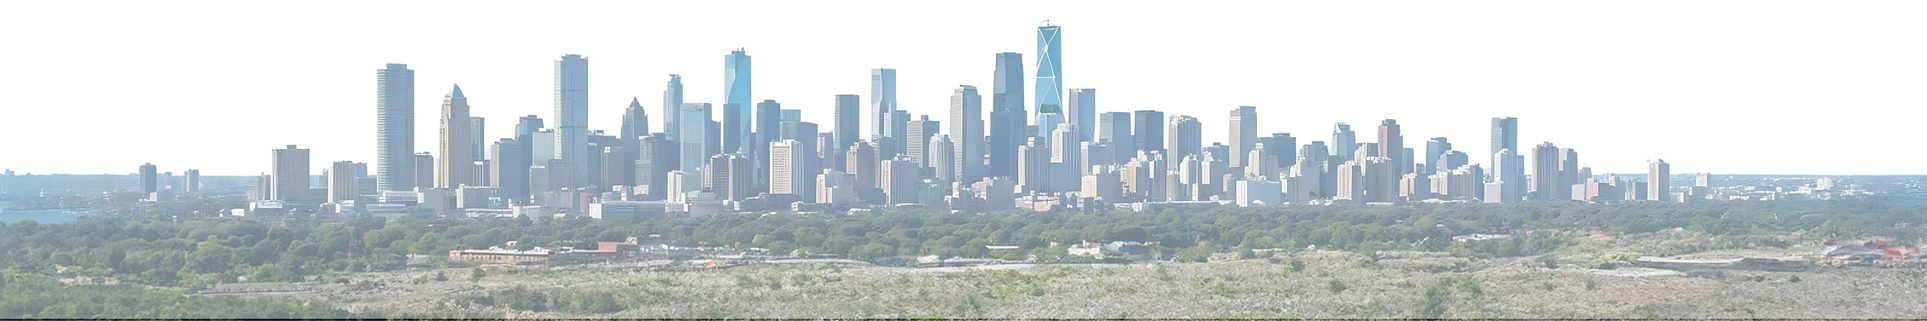
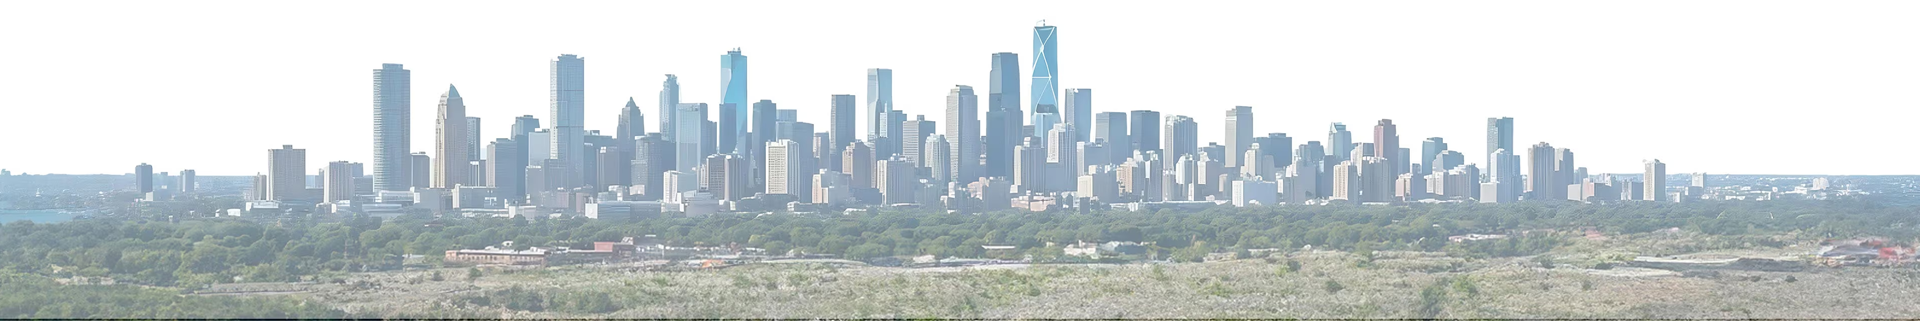
Add files via upload

diff --git a/week_06/index.html b/week_06/index.html
@@ -9,69 +9,341 @@
     <link rel="preconnect" href="https://fonts.googleapis.com">
     <link rel="preconnect" href="https://fonts.gstatic.com" crossorigin>
     <link href="https://fonts.googleapis.com/css2?family=Bebas+Neue&display=swap" rel="stylesheet">
-    <style>
-        h1,h3,h5 {
-            font-family: "Bebas Neue", sans-serif;
-        }
 
-        .cityscape {
-            margin: 292px 0px; position:absolute;
-        }
 
-         h1 {
-            margin: 139px 159px; position:absolute;
-            font-size: 55px;
-        }
+            <style>
+                body {
+                    font-family: "Bebas Neue", sans-serif;
+                }
 
-         .toph3 {
-            margin:212px 159px; position:absolute;
-            font-size: 30px;
-        }
+               html, body {
+                    margin: 0;
 
-        .bottomh3 {
-            margin: 720px 120px; position:absolute;
-            font-size: 30px;
-        }
+               }
 
-        .container {
-          display: flex;
-        }
+               .hero{
+                    background-image: url("imgs/hero_background.png");
+                    background-repeat: no-repeat;
+                    background-size: cover;
+                    background-position: center center;
+                    min-height: 100vh;
+                    color: white;
+                    position: relative;
+               }
         
+               nav {
+                    display: flex;  
+                    justify-content: space-between;
+                    
+               }
+
+               nav>ul>li {
+                    list-style: none;
+                    display: inline;
+                    margin-right: 30px;
+                    font-size: 13px;
+                    margin-top: 0px;
+               }
         
 
-    </style>
+               .search::before {
+                    content: url("imgs/search.png");
+               }
+
+               .map::before {
+                    content: url("imgs/location.png");
+               }
+
+               .user::before {
+                    content: url("imgs/account.png");
+               }
+
+               .lang::before {
+                    content: url("imgs/lang.png");
+                    margin-right: 25px;
+               }
+
+              
+
+               .hero-info {
+                    position: inherit;
+                    margin: 0;
+                    width: 600px;
+                    min-height: 144px;
+                    /* border: 1px solid white; */
+                    top: 300px;
+                    left: 100px;
+               }
+
+               .hero-info>h2,h3,h4 {
+                margin: 0px;
+
+               }
+
+               .hero-info>.year {
+                font-size: 34px;
+
+               }
+
+               .hero-info> h2 {
+                font-size: 72px;
+                margin: 0;
+                margin-top: 0;
+               }
+
+               .hero-info> h3 {
+                font-size: 34px;
+                margin: 0;
+               }
+
+               .hero-info> h4 {
+                font-size: 16px;
+                margin: 0;
+               }
+
+               .hero-info>h4>a {
+                    color: white;
+               }
+
+               .hero-info>ul>li {
+                    list-style: none;
+                    display: inline;
+                    margin: 0px;
+                    /* background-color: blue; */
+                    border: 1px solid white;
+                    padding: 15px 50px;
+                    border-radius: 30px;
+               }
+
+               .white-block{
+                color: black;
+                background-color: white;
+               }
+
+               .product-info {
+                    position: relative;
+                    padding-top: 130px;
+                    background-image: url("imgs/cityscape.png");
+                    background-size: contain;
+                    background-repeat: no-repeat;
+                    background-position: 0px 300px;
+                    min-height: 1079px;
+               }
+
+               .product-info>h2 {
+                font-size: 72px;
+                margin: 0;
+                margin-left: 163px;
+               }
+
+                .product-info>h3 {
+                font-size: 40px;
+                margin: 0;
+                margin-left: 163px;
+               }
+
+               .product-info-conatiner {    
+                position: inherit;
+                display: flex;
+                justify-content: space-around;
+                top: 150px;
+               }
+
+               .product-info-card {
+                   width:386px;
+                   min-height: 580px;
+               }
+
+               .product-info-card-desc {
+                    background-color: #efefef;
+                   margin-left: 25px;
+                    width: 335px;
+                    min-height: 320px;
+
+               }
+
+               .product-info-card-desc>h3 {
+                margin: 0;
+                margin-left: 20px;
+                font-size: 37px;
+               }
+
+               .product-info-card-desc>h4 {
+                margin-top: 0px;
+                margin-left: 20px;
+                font-size: 23px;
+               }
+
+               .list {
+                font-size: 20px;
+                margin-left: 1px;
+               }
+
+               .product-info-card-btn{
+                    list-style: none;
+                    color: white;
+                    background-color: #0276b3;
+                    width: 160px;
+                    min-height: 40px;
+                    line-height: 40px;
+                    border-radius: 50px;
+                    text-align: center;
+                    margin: 0px;
+                    padding: 0px;
+                    margin-top: 40px;
+                    margin-left: 20px;
+               }
+
+            </style>
 </head>
     <body>
-    
-        <header>
-
-            <h1>Find the Right Ride for Your Road</h1>
-
-        </header>
-
-        <h3 class="toph3"> 4 options to make your move.</h3>
 
         <main>
-            <div>   
-                <img src="imgs/cityscape.png" alt="Ford Vehicles" width="100%" class="cityscape">
+            <div class="hero">
+
+                <nav>
+
+
+                    <ul>
+                        <li>
+                            <img src="imgs/ford_oval.svg" alt="Ford Logo">
+                        </li>
+                        <li> vehicles </li>
+                        <li> shop </li>
+                        <li> support &amp; services</li>
+                        <li> ford pro solutions </li>
+                    </ul>
+
+
+                    <ul>
+                        <li> <span class="search"></span> </li>
+                        <li><span class="map"></span> locate dealer </li>
+                        <li> <span class="user"></span> </li>
+                        <li> <span class="lang"></span>  </li>
+                    </ul>
+                    
+                </nav>
+
+                <div class="hero-info">
+
+                    <div class="year">2026
+                    </div>
+                    <h2> Escape <sup class="copywright">®</sup></h2>
+                    <h3> starting at $30,350 <sup>1</sup></h3>
+                    <h4><a href="#"> details</a></h4>
+
+                    <ul>
+                        <li class="white-block">search inventory</li>
+                        <li>2026 Escape</li>
+                    </ul>
+                </div>
+
             </div>
 
-            <div class="container">   
 
-                <h3 class="bottomh3"> 
-                    Escape® Plug-in Hybrid
-                </h3>
 
-                <h5>
-                    Starting at $35,4001
-                </h5>
+            <div class="product-info">
+                <h2>Find the Right Ride for Your Road</h2>
+                <h3> 4 options to make your move.</h3>
 
-                <ul>
-                    <li>2.5L iVCT Atkinson Cycle I-4 hybrid engine</li>
-                    <li>Standard front-wheel drive</li>
-                    <li>• 13.2" center display</li>
-                    <li>• 101 EPA-est. MPGe (combined)</li>
-                </ul>
+                <div class="product-info-conatiner">
+
+                    <div class="product-info-card">
+                        <img src="imgs/escape_plug-in_hybrid.png" alt="blue car">
+                        <div class="product-info-card-desc">
+                            <h3> 
+                                Escape<sup>®</sup> Plug-in Hybrid
+                            </h3>
+
+                            <h4> 
+                                Starting at $35,400 <sup>1</sup>
+                            </h4>
+
+                            <ul class="list">
+                                <li> 2.5L iVCT Atkinson Cycle I-4 hybrid engine </li>
+                                <li> Standard front-wheel drive </li>
+                                <li> 13.2" center display </li>
+                                <li> 101 EPA-est. MPGe (combined) </li>
+                            </ul>
+
+                            <ul class="product-info-card-btn">
+                                <li> build &amp; price </li>
+                            </ul>
+                        </div>
+                    </div>
+
+                    <div class="product-info-card">
+                        <img src="imgs/escape_active.png" alt="white car">
+                        <div class="product-info-card-desc">
+                            <h3> 
+                                Escape active<sup>®</sup>
+                            </h3>
+
+                            <h4> 
+                                Starting at $35,400 <sup>1</sup>
+                            </h4>
+
+                            <ul class="list">
+                                <li> 2.5L iVCT Atkinson Cycle I-4 hybrid engine </li>
+                                <li> Standard front-wheel drive </li>
+                                <li> 13.2" center display </li>
+                                <li> 101 EPA-est. MPGe (combined) </li>
+                            </ul>
+
+                            <ul class="product-info-card-btn">
+                                <li> build &amp; price </li>
+                            </ul>
+                        </div>
+                    </div>
+
+                    <div class="product-info-card">
+                        <img src="imgs/escape_st-line.png" alt="gray car">
+                        <div class="product-info-card-desc">
+                            <h3> 
+                                Escape<sup>®</sup> st-line
+                            </h3>
+
+                            <h4> 
+                                Starting at $35,400 <sup>1</sup>
+                            </h4>
+
+                            <ul class="list">
+                                <li> 2.5L iVCT Atkinson Cycle I-4 hybrid engine </li>
+                                <li> Standard front-wheel drive </li>
+                                <li> 13.2" center display </li>
+                                <li> 101 EPA-est. MPGe (combined) </li>
+                            </ul>
+
+                            <ul class="product-info-card-btn">
+                                <li> build &amp; price </li>
+                            </ul>
+                        </div>
+                    </div>
+
+                    <div class="product-info-card">
+                        <img src="imgs/escape_platinum.png" alt="red car">
+                        <div class="product-info-card-desc">
+                            <h3> 
+                                Escape<sup>®</sup> platnium<sup>tm</sup>
+                            </h3>
+
+                            <h4> 
+                                Starting at $35,400 <sup>1</sup>
+                            </h4>
+
+                            <ul class="list">
+                                <li> 2.5L iVCT Atkinson Cycle I-4 hybrid engine </li>
+                                <li> Standard front-wheel drive </li>
+                                <li> 13.2" center display </li>
+                                <li> 101 EPA-est. MPGe (combined) </li>
+                            </ul>
+
+                            <ul class="product-info-card-btn">
+                                <li> build &amp; price </li>
+                            </ul>
+                        </div>
+                    </div>
+                </div>    
 
             </div>
             
